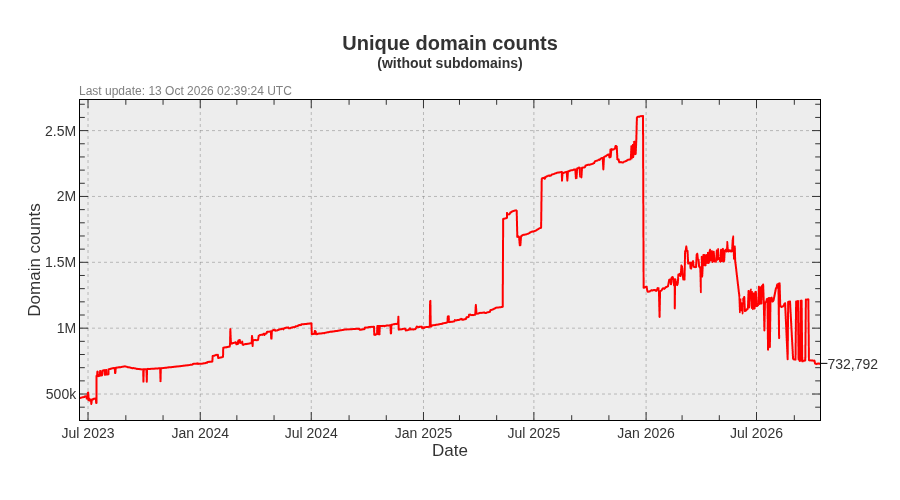
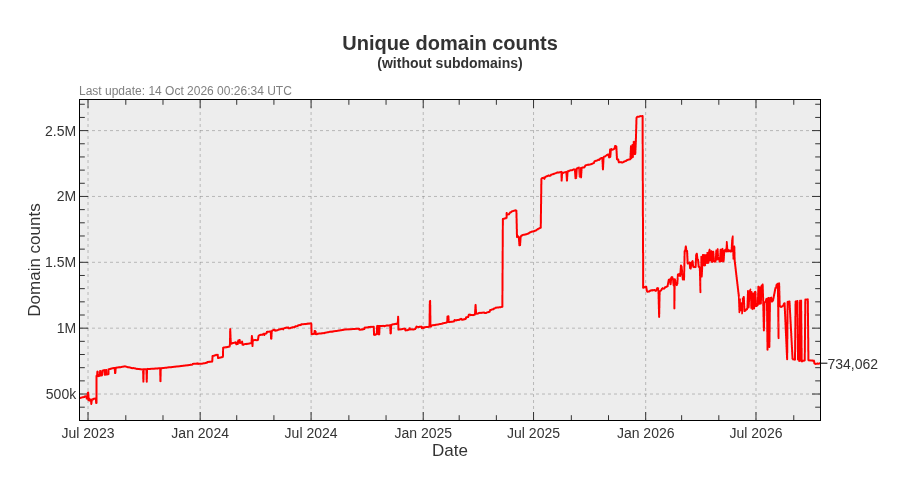
Update pages

diff --git a/README.md b/README.md
@@ -3,22 +3,22 @@ A blocklist file for blocking ads, trackers and malware domains.
 
[1 lines of base64/hex data omitted]
 
-- Unique domains: 1,453,231
-- Without subdomains: 732,792
-- Last update: 13 Oct 2026 02:39:24 UTC
-- Version: 2026.10.13.01
+- Unique domains: 1,454,441
+- Without subdomains: 734,062
+- Last update: 14 Oct 2026 00:26:34 UTC
+- Version: 2026.10.14.01
 
 
 ## Downloads:
 
 | Format             | Domain count      | Download Link |
 |------------------ | -----------------|-------------|
-| *Adblock Plus*     | 732,792 | [bad-hosts-abp](https://dl.cenk.app/bad-hosts/bad-hosts-abp) |
-| *Wildcard domains* | 732,792 | [bad-hosts-wildcard](https://dl.cenk.app/bad-hosts/bad-hosts-wildcard) |
-| *dnsmasq*          | 732,792 | [bad-hosts-dnsmasq](https://dl.cenk.app/bad-hosts/bad-hosts-dnsmasq) |
-| *hosts*            | 1,453,231 | [hosts](https://dl.cenk.app/bad-hosts/hosts) |
-| *hosts (ipv6)*     | 1,453,231 | [hosts-ipv6](https://dl.cenk.app/bad-hosts/hosts-ipv6) |
-| *Plain domains*    | 1,453,231 | [bad-hosts-domains](https://dl.cenk.app/bad-hosts/bad-hosts-domains) |
+| *Adblock Plus*     | 734,062 | [bad-hosts-abp](https://dl.cenk.app/bad-hosts/bad-hosts-abp) |
+| *Wildcard domains* | 734,062 | [bad-hosts-wildcard](https://dl.cenk.app/bad-hosts/bad-hosts-wildcard) |
+| *dnsmasq*          | 734,062 | [bad-hosts-dnsmasq](https://dl.cenk.app/bad-hosts/bad-hosts-dnsmasq) |
+| *hosts*            | 1,454,441 | [hosts](https://dl.cenk.app/bad-hosts/hosts) |
+| *hosts (ipv6)*     | 1,454,441 | [hosts-ipv6](https://dl.cenk.app/bad-hosts/hosts-ipv6) |
+| *Plain domains*    | 1,454,441 | [bad-hosts-domains](https://dl.cenk.app/bad-hosts/bad-hosts-domains) |
 
 ## Domain count history
 ### With subdomains
